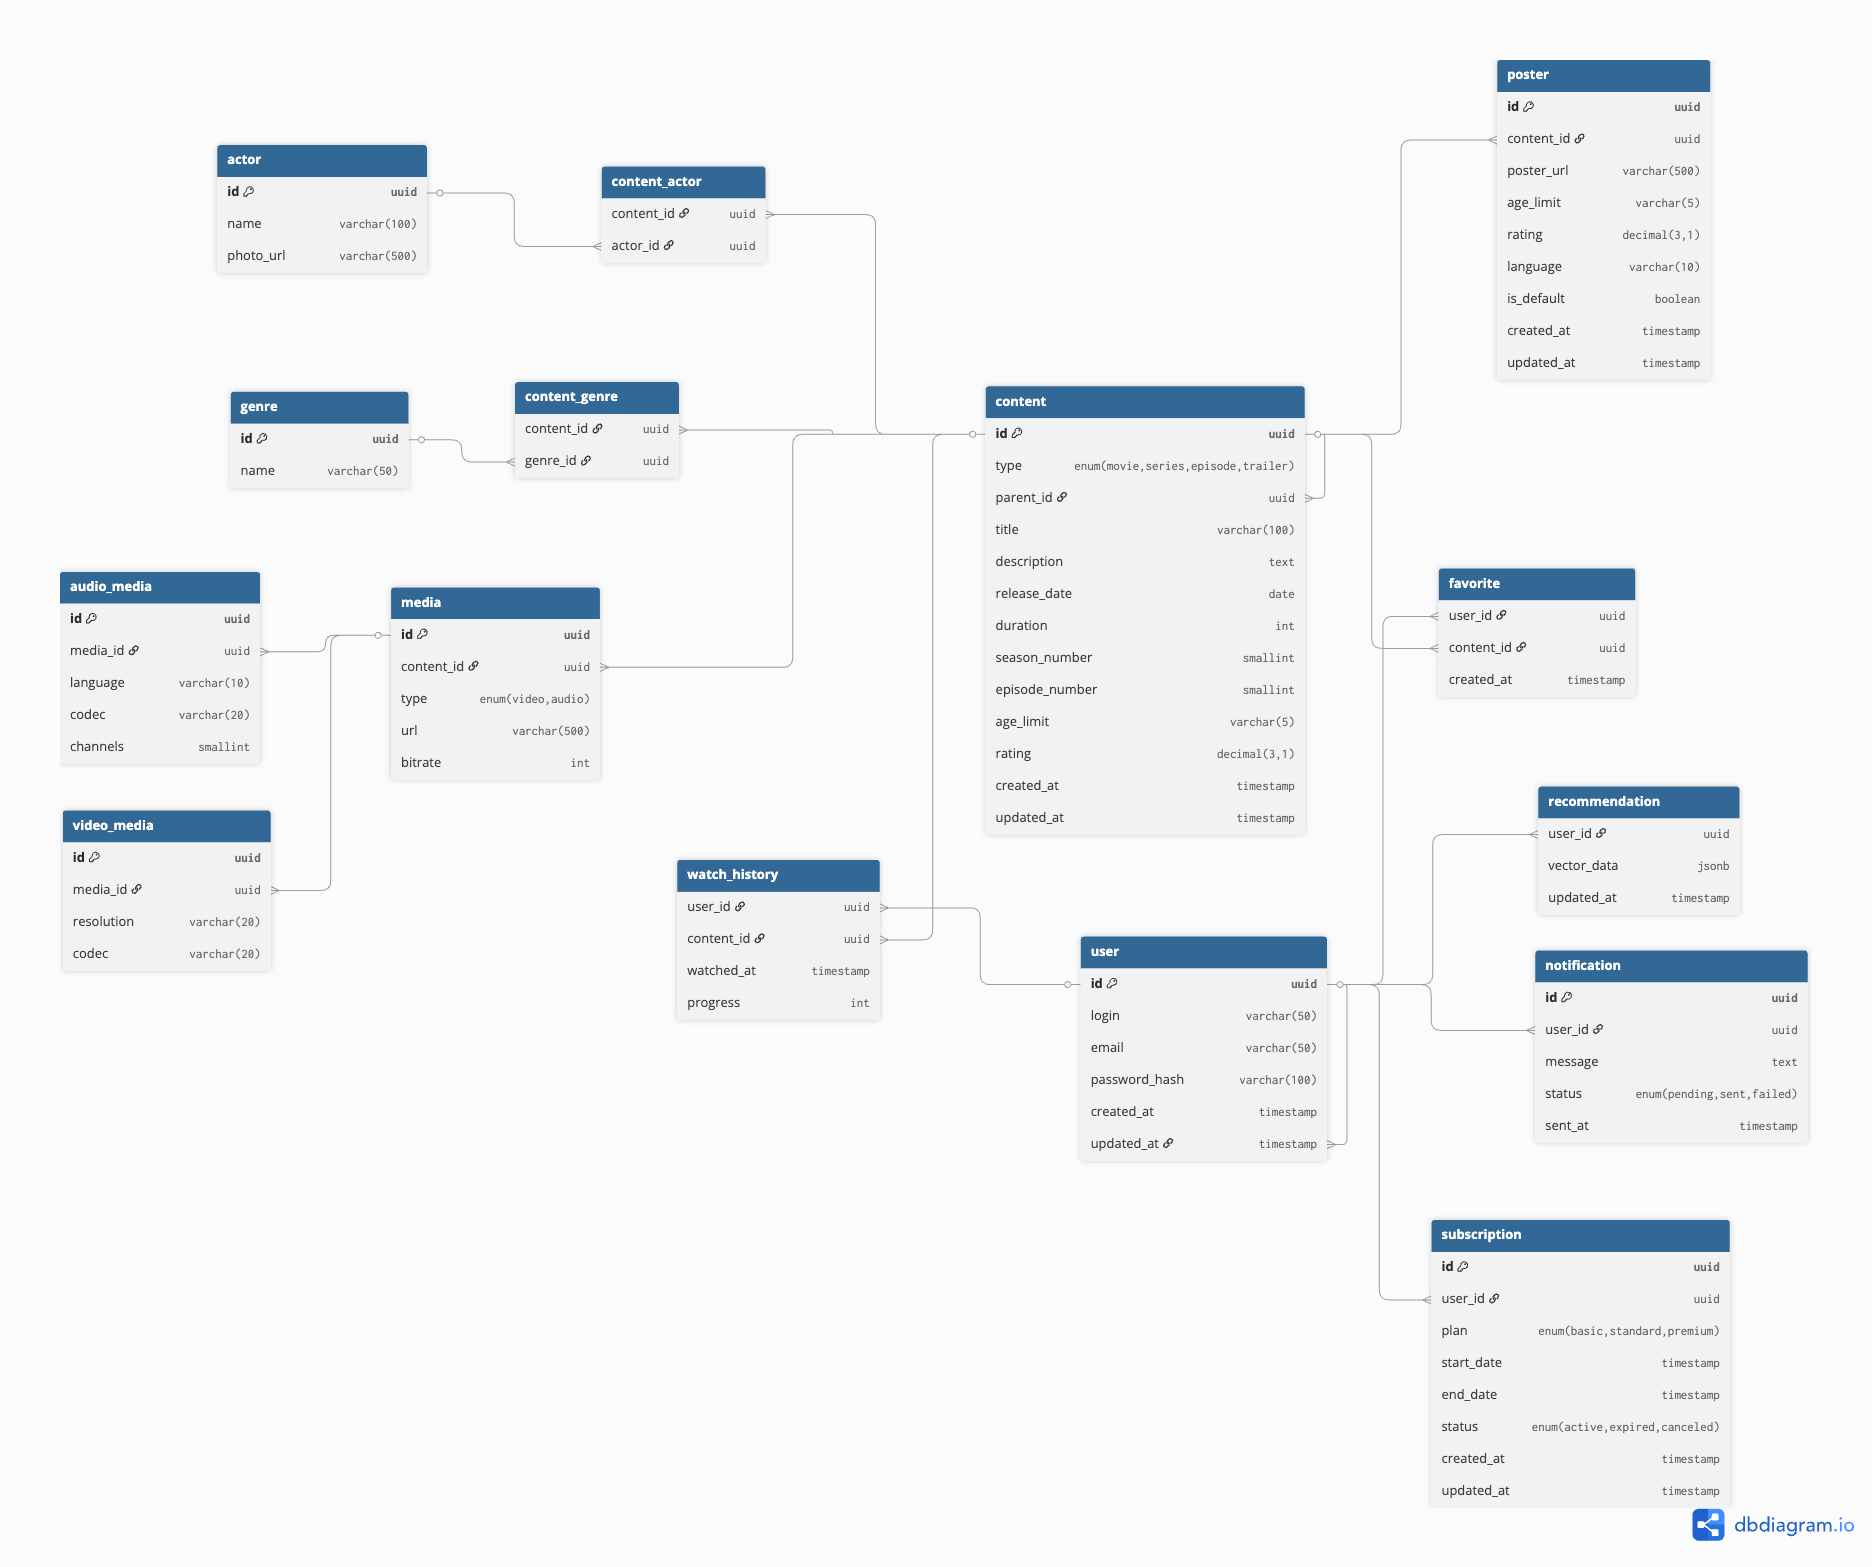
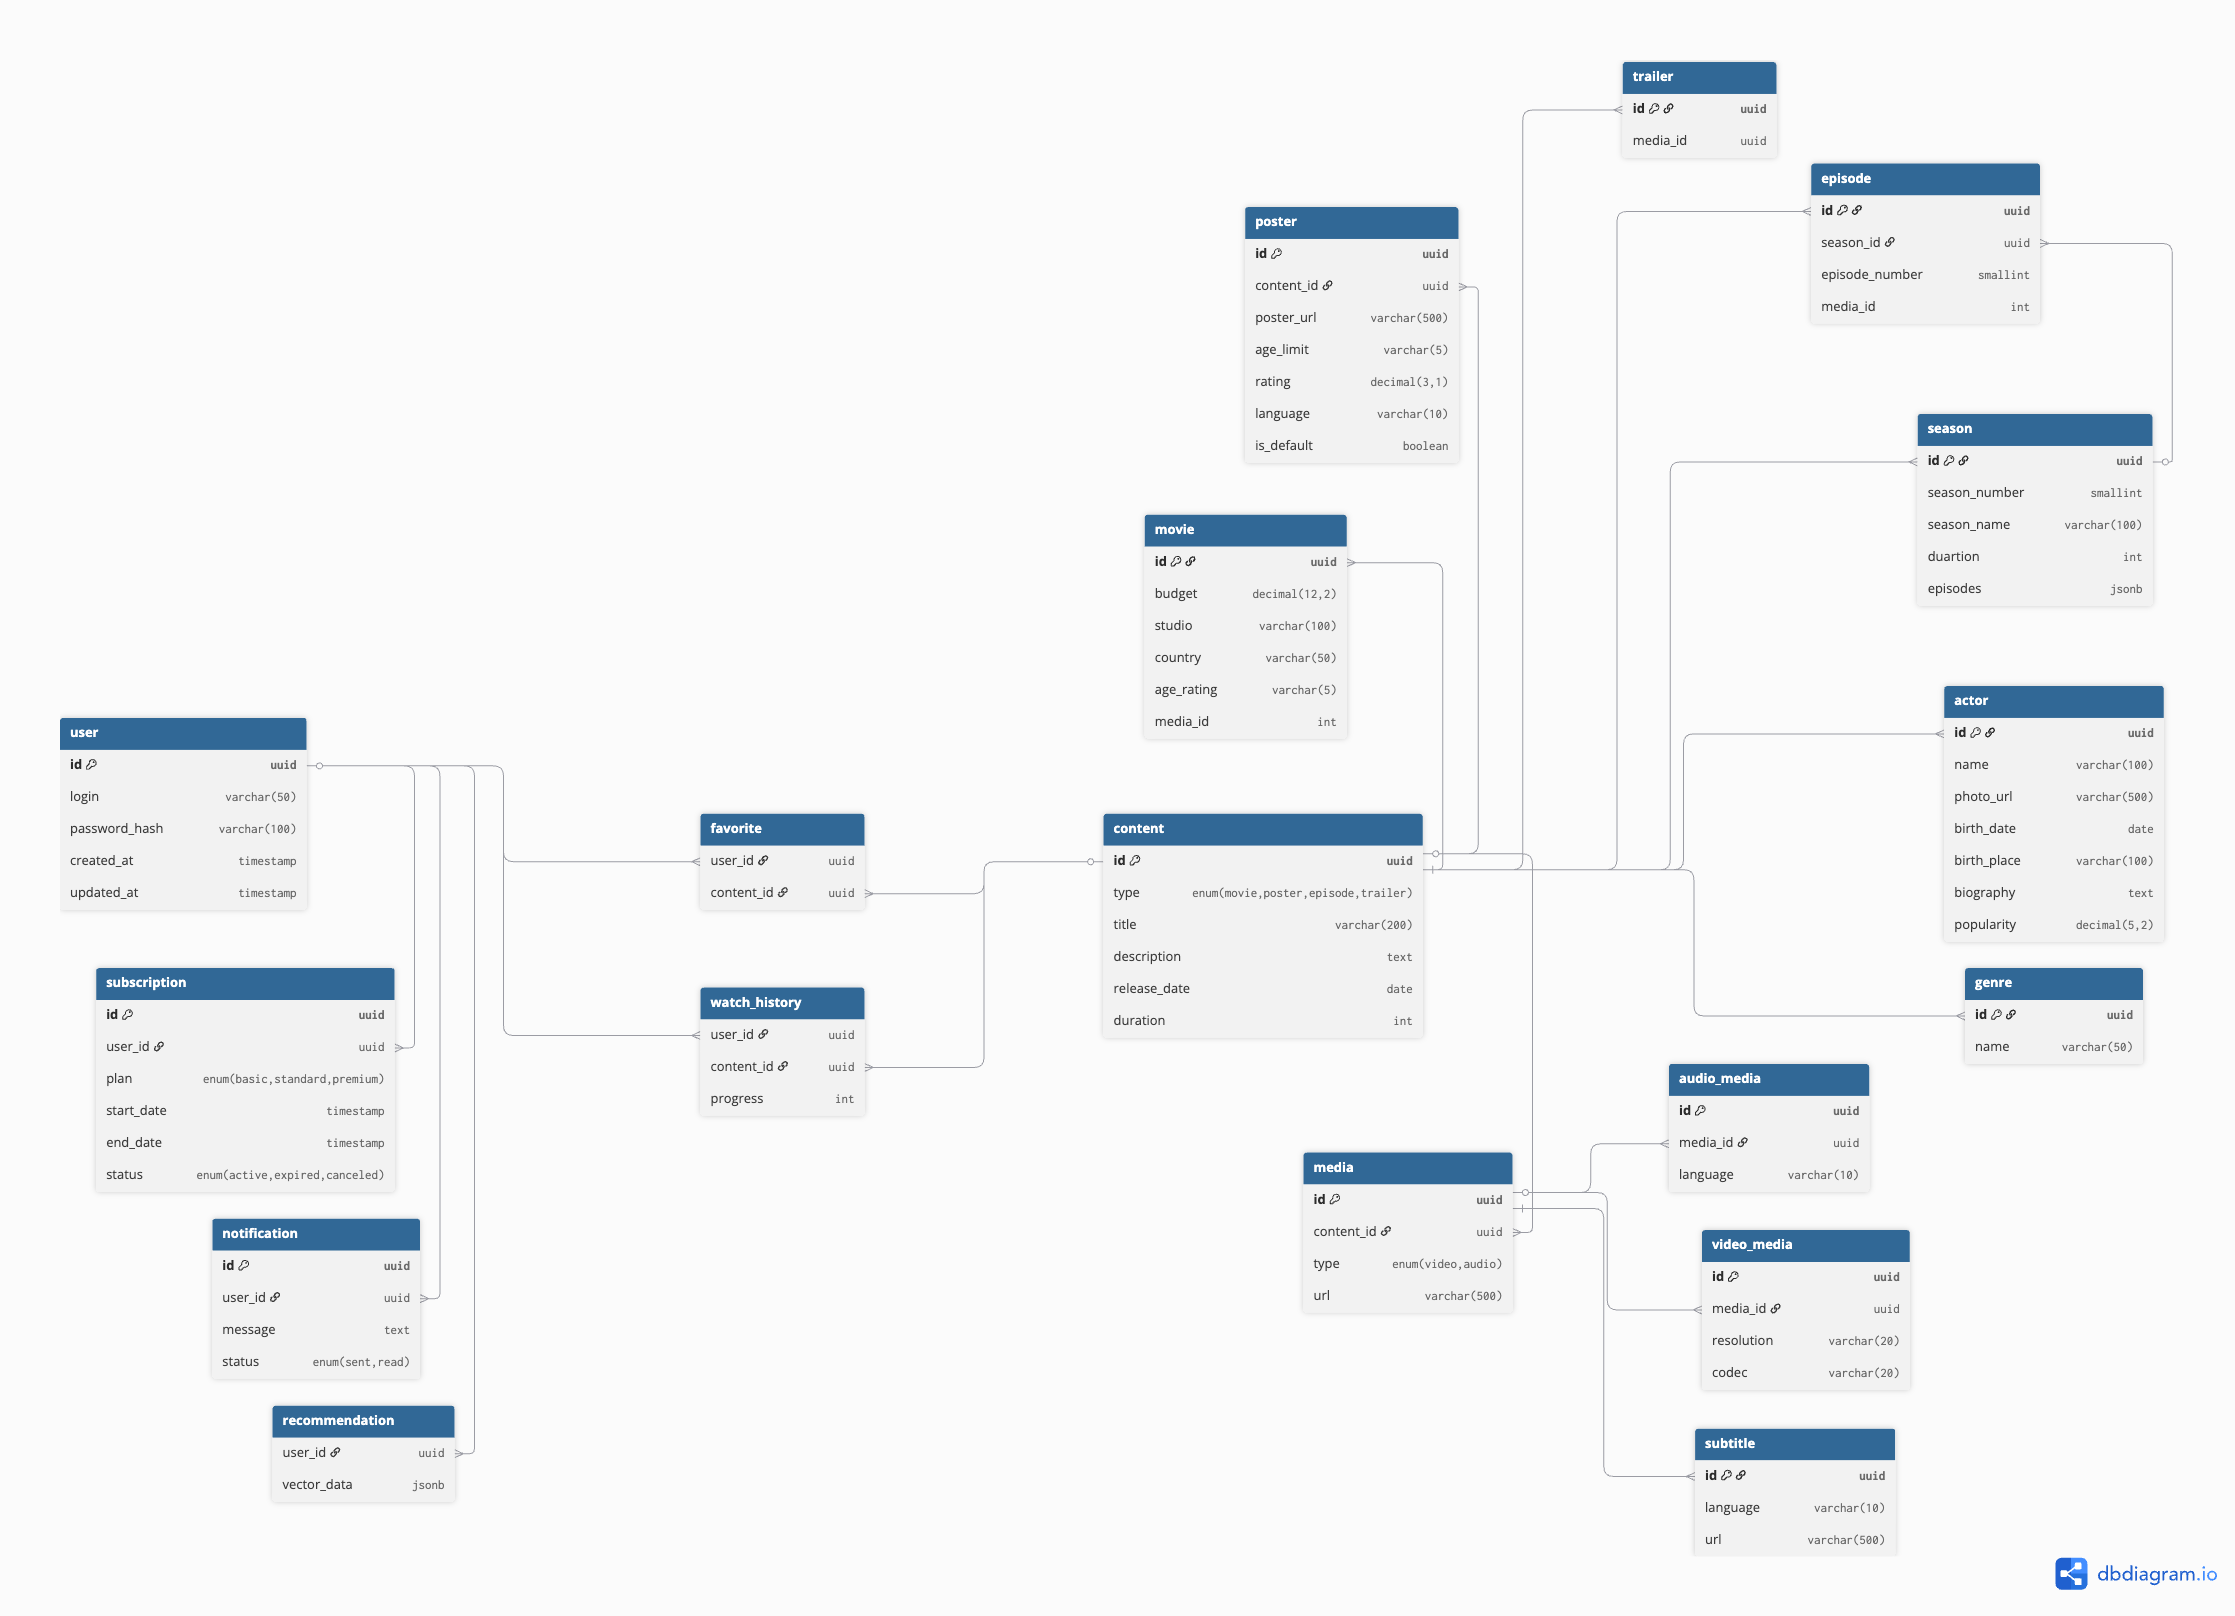
fix

diff --git a/README.md b/README.md
@@ -338,67 +338,7 @@ Zuul выступает единой точкой входа, обрабатыв
 | | status | enum | Статус доставки: pending, sent, failed | |
 | | sent_at | timestamp | Дата и время отправки | |
 
----
+# Физическая схема БД
 
-**Файловые данные** (S3, облачное хранилище):
-- Постеры: ~20 млн × 0.5 МБ = ~10 ТБ
-- Видео/аудио файлы: десятки петабайт (все варианты качества, языки, сегменты). Фактически Netflix хранит сотни петабайт видеоконтента.
-
----
-
-### Нагрузка (QPS) на чтение/запись
-
-| Операция | Чтение (QPS) | Запись (QPS) | Примечания |
-|----------|--------------|--------------|------------|
-| Авторизация (user) | 500 000 | 1 000 | Проверка подписки и логина |
-| Получение метаданных контента (content, poster, genre, actors) | 2 000 000 | 10 000 | Главная страница, поиск, страница деталей |
-| Запрос медиафайлов (media) | 10 000 000 | 50 000 | Стриминг видео/аудио — самый высокий RPS |
-| История просмотров (watch_history) | 500 000 (чтение прогресса) | 2 000 000 (запись прогресса каждые несколько секунд) | Интенсивная запись |
-| Избранное (favorite) | 200 000 | 10 000 | |
-| Рекомендации (recommendation) | 1 000 000 | 1 000 (периодическое обновление) | Чтение при каждом сеансе |
-| Уведомления (notification) | 100 000 | 10 000 | |
-
-**Суммарно**:
-- Пиковое чтение: до 10–15 млн QPS.
-- Пиковая запись: до 2–3 млн QPS.
-
----
-
-### Требования к консистентности
-
-| Таблица / операция | Требование | Обоснование |
-|--------------------|------------|-------------|
-| **user, subscription** | Сильная консистентность (strong) | Платежи, доступ к контенту — критично. После обновления подписки пользователь должен сразу получить доступ. |
-| **content, poster, genre, actor** | Слабая консистентность (eventual) | Метаданные обновляются редко, допустима задержка до нескольких минут. Используется кэширование. |
-| **media (видеофайлы)** | Сильная консистентность для сегментов, доступных пользователю | При загрузке нового контента важно, чтобы все сегменты стали доступны одновременно, но допустима небольшая задержка (минуты). |
-| **watch_history** | Слабая консистентность (eventual) | Прогресс просмотра может слегка запаздывать. Приоритет — низкая задержка записи. |
-| **favorite** | Сильная консистентность (strong) | Пользователь ожидает мгновенного отображения добавленного в избранное. |
-| **recommendation** | Слабая консистентность (eventual) | Рекомендации обновляются раз в несколько часов, допустима задержка. |
-| **notification** | Слабая консистентность (eventual) | Уведомления могут приходить с небольшой задержкой. |
-
----
-
-### Особенности распределения нагрузки по ключам
-
-| Таблица / ключ | Стратегия распределения | Обоснование |
-|----------------|-------------------------|-------------|
-| **user.id** | Шардирование по user_id (хэш) | Все операции пользователя (подписка, история, избранное) лучше выполнять на одном шарде для уменьшения сетевых вызовов. |
-| **subscription** | Вместе с user (колокация) | Следует за user.id, обычно хранится на том же шарде. |
-| **content.id** | Шардирование по content_id (хэш) | Метаданные равномерно распределяются. |
-| **watch_history** | Шардирование по user_id | Вся история просмотров одного пользователя на одном шарде — важно для быстрой загрузки прогресса и обновлений. |
-| **favorite** | Шардирование по user_id | Аналогично watch_history. |
-| **recommendation** | Шардирование по user_id | Рекомендации для пользователя на одном шарде. |
-| **notification** | Шардирование по user_id | Уведомления для пользователя на одном шарде. |
-| **media, video_media, audio_media** | Шардирование по content_id | Все файлы одного контента желательно размещать в одном месте для эффективной стриминговой доставки. Часто используется комбинация с географической привязкой (региональные копии). |
-| **content_genre, content_actor** | Шардирование по content_id | Для быстрого получения жанров и актёров конкретного контента. |
-
-**Географическое распределение**:
-- Метаданные (content, poster) реплицируются во все регионы.
-- Медиафайлы размещаются в регионах на основе популярности контента и сетевой топологии (CDN).
-- Пользовательские данные (watch_history, favorite) хранятся в регионе проживания пользователя.
-
-**Кэширование**:
-- Redis используется для кэширования метаданных, сессий пользователей, рекомендаций (TTL от минут до часов).
-- Для медиафайлов используется CDN с кэшированием на краевых узлах.
-
----
+![Database](images/Database2.0.png)
+![Database](images/Division.png)
